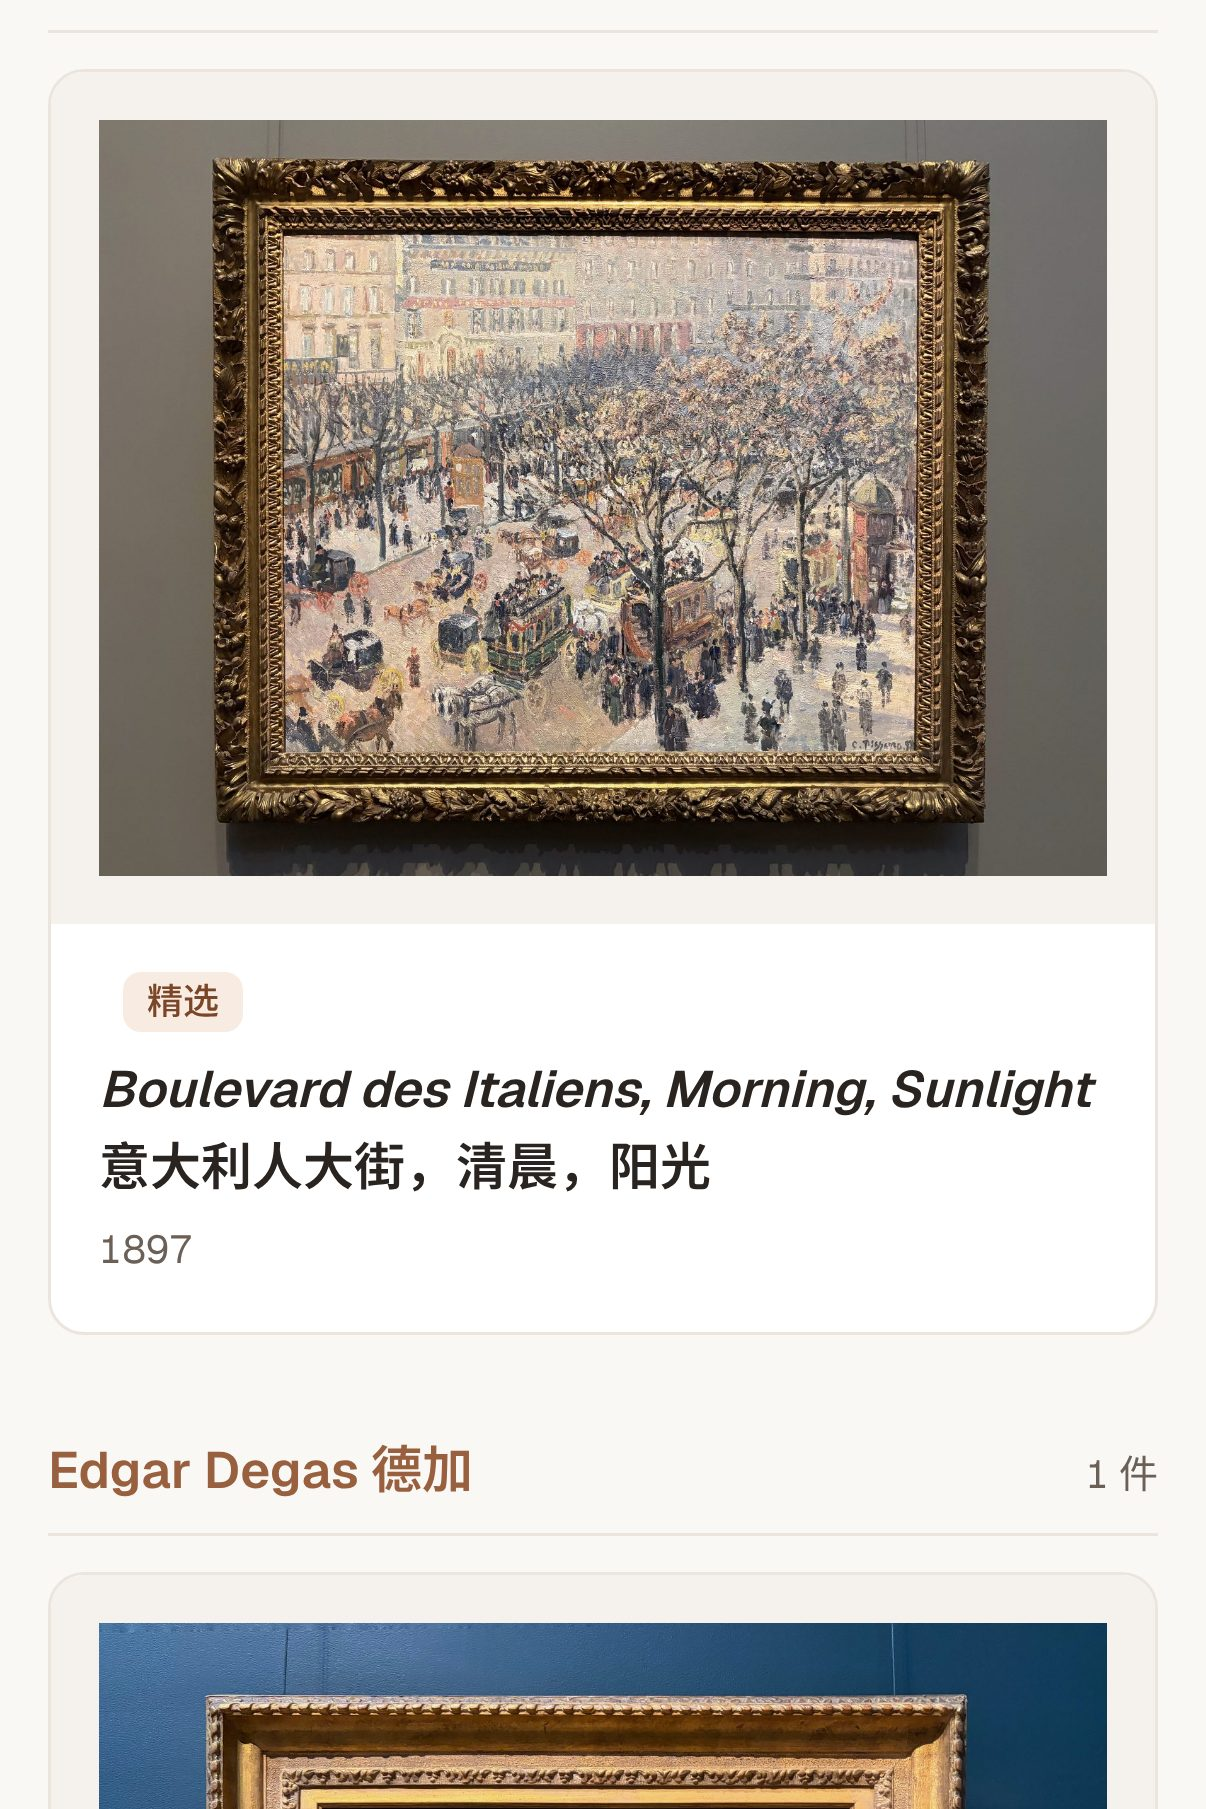
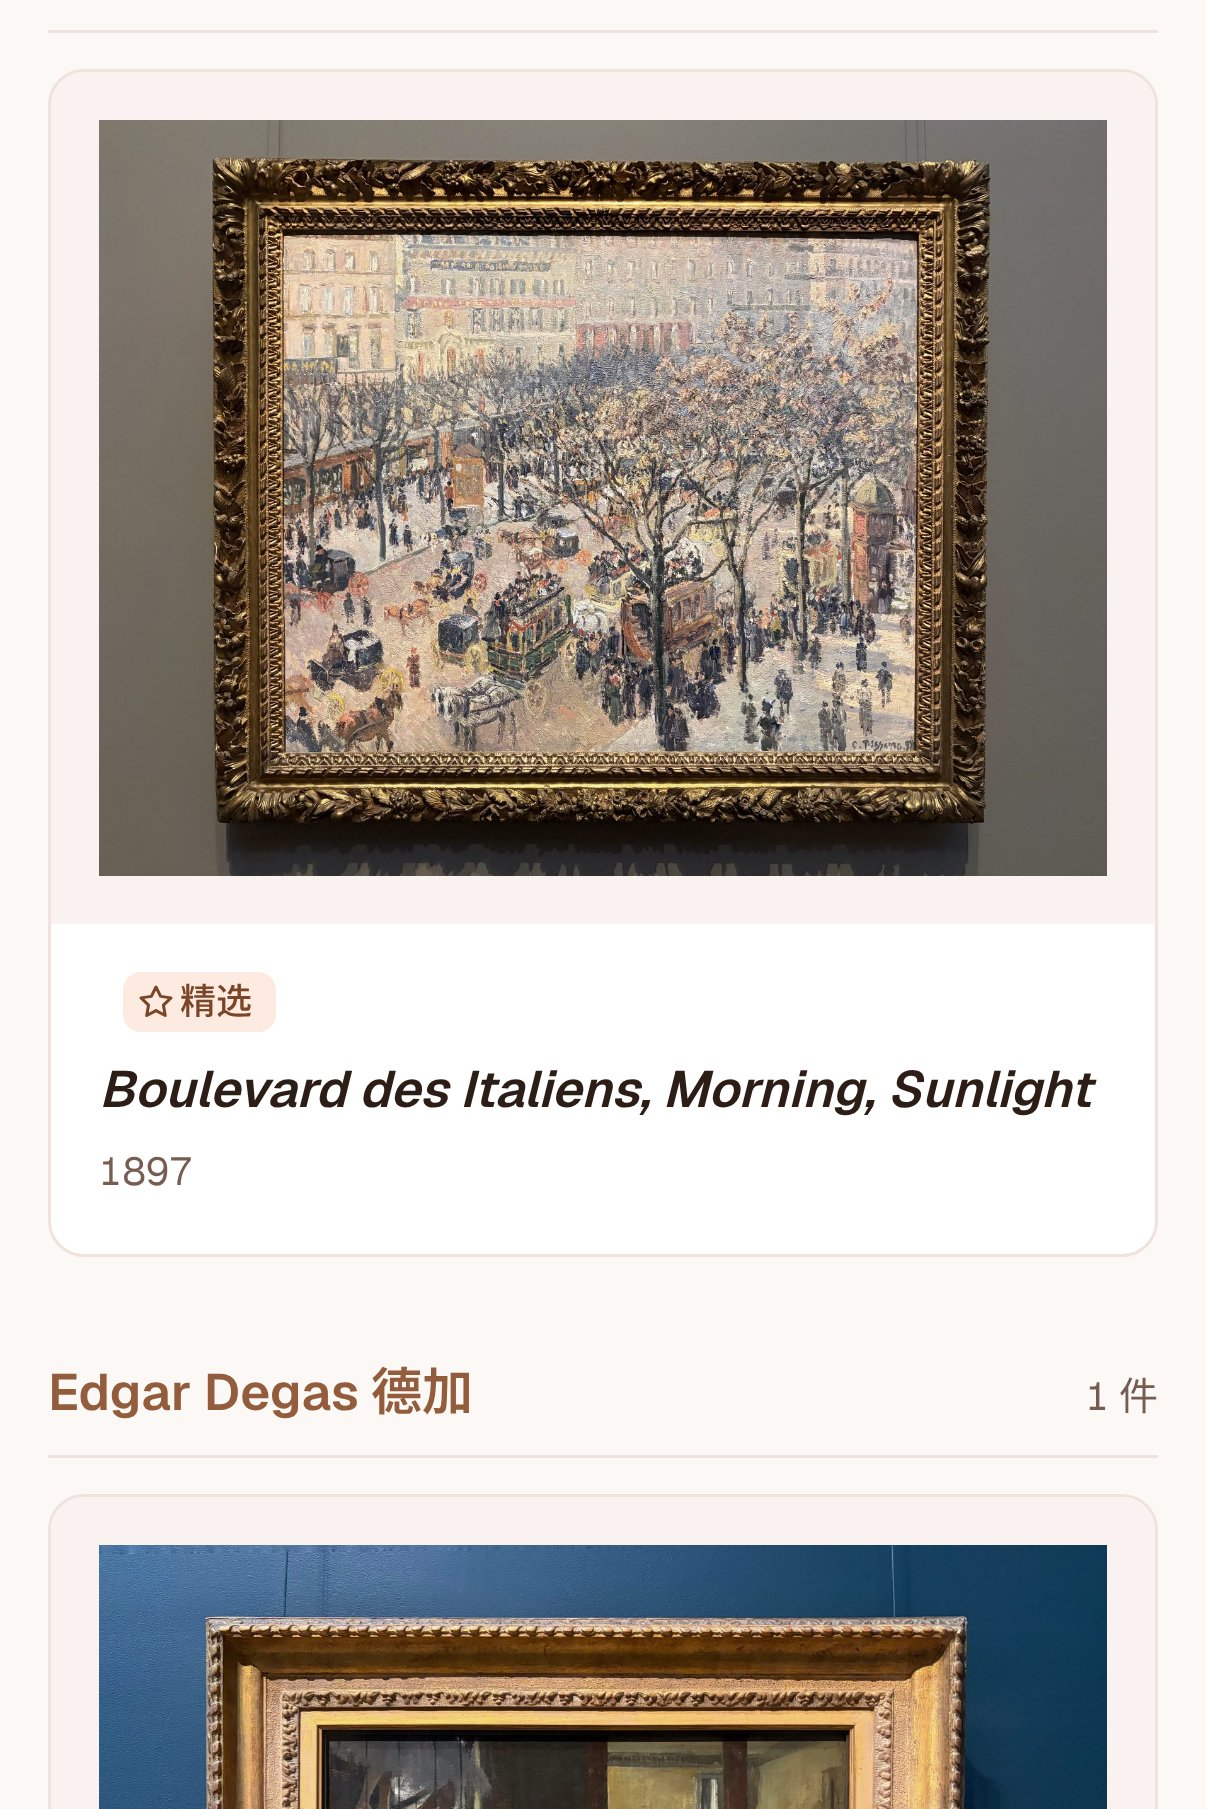
Copy: one spelling for Front-End roles; drop decorative emoji; plain wording in CS242 Project 1; retake My Gallery screenshots in the new colors

diff --git a/_posts/projects/2020-03-23-you-dont-know-about-starbucks.md b/_posts/projects/2020-03-23-you-dont-know-about-starbucks.md
@@ -44,7 +44,7 @@ Drinks are categorized based on the menu to help people better find drinks. To s
 
 Exploring the data, we can see that many drinks among a sub-category share a similar trend. For example, under "Hot Coffees", **americanos** are low-calorie, while mochas contain more calories and sugars. Also, when a drink is high in calories, the sugar contents are often simultaneously high.
 
-**How to play 🍵:** **Hover** above the drinks to inspect detailed nutrition information. **Select** a tab to change the type. **Type** in the search bar to filter drinks.
+**How to play:** **Hover** above the drinks to inspect detailed nutrition information. **Select** a tab to change the type. **Type** in the search bar to filter drinks.
 
 ![](/assets/posts/2020-03-23-you-dont-know-about-starbucks/image1.png)
 
@@ -58,7 +58,7 @@ We can easily see the detailed calories for each type of drink. For example, cof
 
 The ranges of calories vary from drink to drink. The general trend is that the higher the maximum calories go, the longer the bar is. This quite makes sense: if cold brews have lower calories for their maximum size, they have less room to decrease for reduced sizes. A drink with a wider range of choices can satisfy different customer needs; for example, if I don't care about calories, I can order a Venti or even Trenta size, but if I care about my weight, I can have a healthier choice with a small size, but that's still the same flavor that I want.
 
-**How to play 🍵:** **Hover** above the lines to see the exact range. Type in the search bar to filter drinks.
+**How to play:** **Hover** above the lines to see the exact range. Type in the search bar to filter drinks.
 
 ![](/assets/posts/2020-03-23-you-dont-know-about-starbucks/image2.png)
 
@@ -72,7 +72,7 @@ Each type of drink has distinct characteristics. Take coffees as an example. Whe
 
 Generally speaking, for drinks with hot and cold options, hot ones contain higher calories than cold drinks. At the same time, the numbers are equal for some drinks with low calories already, such as americano and espresso.
 
-**How to play 🍵:** **Hover** to highlight the current drink and its corresponding hot/cold option. **Hover** on any empty space to reset the graph.
+**How to play:** **Hover** to highlight the current drink and its corresponding hot/cold option. **Hover** on any empty space to reset the graph.
 
 ![](/assets/posts/2020-03-23-you-dont-know-about-starbucks/image6.png)
 
@@ -90,7 +90,7 @@ From the chart, we can see the positive correlation between calories and sugars.
 -   Many beverages are gathered in the 150-calorie, 20g-sugar region, including classic coffee with milk, such as **lattes** and **flat whites**, as well as cold drinks. Customers who choose these products may balance both flavor and health.
 -   High-calorie products, such as **Frappuccinos** and **mochas**, are also very popular, as shown in a cluster at the top-right corner.
 
-**How to play 🍵:** **Toggle** on or off the checkbox to show or hide top-ranked drinks. **Hover** on the green dots to see top drinks and their nutritional information.
+**How to play:** **Toggle** on or off the checkbox to show or hide top-ranked drinks. **Hover** on the green dots to see top drinks and their nutritional information.
 
 ![](/assets/posts/2020-03-23-you-dont-know-about-starbucks/image4.png)
 
@@ -113,7 +113,7 @@ As a result, we visualized these three important indicators: calories from carbo
 
 Moreover, when focusing on the distribution among these three indicators, you may like to consider something like **Caffè Latte** to drink and **Spinach, Feta & Cage-Free Egg White Wrap** to eat, since they both have a relatively balanced distribution compared with the other options.
 
-**How to play 🍵:** The axis and dots represent the calories distribution of the top items, respectively. **Hover** on the following donut graph to see the position of a specific item on the calories axis.
+**How to play:** The axis and dots represent the calories distribution of the top items, respectively. **Hover** on the following donut graph to see the position of a specific item on the calories axis.
 
 ![](/assets/posts/2020-03-23-you-dont-know-about-starbucks/image3.png)
 
@@ -123,7 +123,7 @@ Moreover, when focusing on the distribution among these three indicators, you ma
 
 Keeping one meal of the day under 500 calories is considered one of the regular options for people who work out. Many people also choose to make up their options (food + drink) directly at Starbucks. Here, we have provided a food recommender, where the calories of the drink are provided based on your choice for the item and its size; meanwhile, it helps you screen out a list of food you can choose from, to limit the total calories within 500.
 
-**How to play 🍵:** The navigator on the very left can guide you through the types of drink options at Starbucks. **Click** on the sorted drinks directly, as well as the size options. We would automatically provide you with a list of food on the right from which you can choose, in the meantime maintaining the overall calories under 500.
+**How to play:** The navigator on the very left can guide you through the types of drink options at Starbucks. **Click** on the sorted drinks directly, as well as the size options. We would automatically provide you with a list of food on the right from which you can choose, in the meantime maintaining the overall calories under 500.
 
 ![](/assets/posts/2020-03-23-you-dont-know-about-starbucks/image7.png)
 
@@ -142,7 +142,7 @@ As can be seen from the scatter plot:
 -   Although tea is also considered to be able to provide sufficient caffeine thus bringing an invigorating effect, **tea beverages** at Starbucks are generally clustered in areas with low caffeine contained (&lt; 50mg).
 -   The popular **Frappuccinos** series turns out to be the most "sleepy" option --- low caffeine and high calories make them not a good choice for an "efficient" drink, but potential risks that make people more sleepy. But it's not necessarily true, since the large proportion of ice contained may also have a refreshing effect :)
 
-**How to play 🍵:** **Hover** on the color dots to see drinks and their information on calories and caffeine.
+**How to play:** **Hover** on the color dots to see drinks and their information on calories and caffeine.
 
 ![](/assets/posts/2020-03-23-you-dont-know-about-starbucks/image8.png)
 

diff --git a/_posts/projects/2018-10-05-cs242-project-1.md b/_posts/projects/2018-10-05-cs242-project-1.md
@@ -18,7 +18,7 @@ excerpt: A chess game in Java
 
 When launching the application, the tester will first see the setting window popping up. The tester needs to enter the name for Player Light, Player Dark, height and width.
 
-The tester can change any field. ~~Note that all the fields should be filled and valid, and the height and the width must exceed 8; otherwise, the game is not allowed to start.~~ 👈 Not implemented, so please be kind and enter valid stuff.
+The tester can change any field. The game does not check the input, so every field must be filled with a valid value, and the height and the width must be greater than 8.
 
 | Default Configuration                                                                   | User-defined Configuration                                                                |
 | --------------------------------------------------------------------------------------- | ----------------------------------------------------------------------------------------- |

diff --git a/_posts/projects/2026-10-16-my-gallery.md b/_posts/projects/2026-10-16-my-gallery.md
@@ -71,7 +71,7 @@ I don't count on either agent being careful. I count on the checks.
 - **Two views:** a museum page has a detail view with labels and a thumbnail view.
 
 <div class="screens">
-    <figure><img src="/assets/posts/2026-10-16-my-gallery/label.jpg" alt="Pissarro's Boulevard des Italiens, Morning, Sunlight photographed in its frame, above its label with the English and Chinese titles and the year"><figcaption>A work with its label.</figcaption></figure>
+    <figure><img src="/assets/posts/2026-10-16-my-gallery/label.jpg" alt="Pissarro's Boulevard des Italiens, Morning, Sunlight photographed in its frame, above its label with the title and the year"><figcaption>A work with its label.</figcaption></figure>
     <figure><img src="/assets/posts/2026-10-16-my-gallery/thumbnails.jpg" alt="A grid of painting thumbnails from the Musée d'Orsay"><figcaption>The Musée d'Orsay in the thumbnail view.</figcaption></figure>
 </div>
 

diff --git a/_posts/projects/2018-04-23-food_quest.md b/_posts/projects/2018-04-23-food_quest.md
@@ -9,7 +9,7 @@ group: UIUC
 categories: [Web Development]
 tags: [HTML5, CSS, JavaScript, Bootstrap, Database Design]
 # project info
-role: Front-end Web Developer
+role: Front-End Web Developer
 demo: https://www.youtube.com/watch?v=mypaFLsoPyk
 report: https://wiki.illinois.edu/wiki/display/cs411sp18/UpVersion+-+Final+Report
 source_code: https://github.com/Ruiqian-Yao/cs411-project

diff --git a/_posts/projects/2017-07-17-ui-courses.md b/_posts/projects/2017-07-17-ui-courses.md
@@ -9,7 +9,7 @@ group: UIUC
 categories: [Web Development]
 tags: [HTML5, CSS, JavaScript, Database Design]
 # project info
-role: Front-end Web Developer
+role: Front-End Web Developer
 report: https://github.com/sumerinlan/uicourses_v2/wiki
 source_code: https://github.com/sumerinlan/uicourses_v2
 # content info

diff --git a/_posts/projects/2018-05-08-tcm.md b/_posts/projects/2018-05-08-tcm.md
@@ -10,7 +10,7 @@ group: UIUC
 categories: [Machine Learning]
 tags: [HTML5, CSS, JavaScript, Bootstrap]
 # project info
-role: Front-end Web Developer
+role: Front-End Web Developer
 demo: https://mediaspace.illinois.edu/media/t/1_dnqnmeo2
 source_code: https://github.com/sumerinlan/TCM-Project
 # content info
